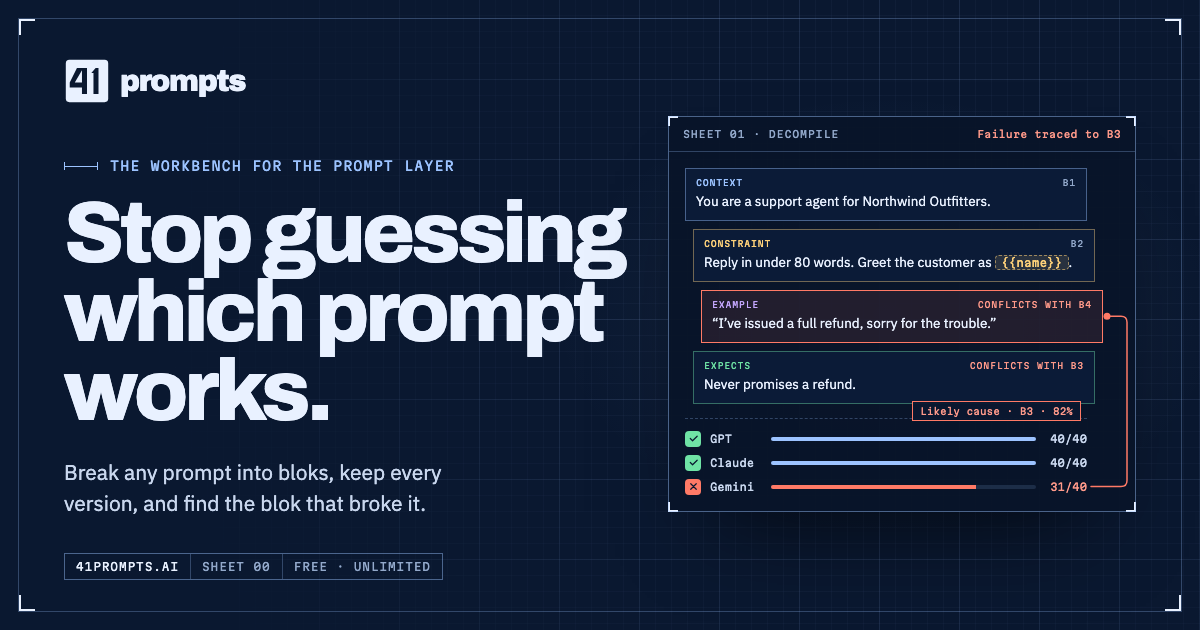
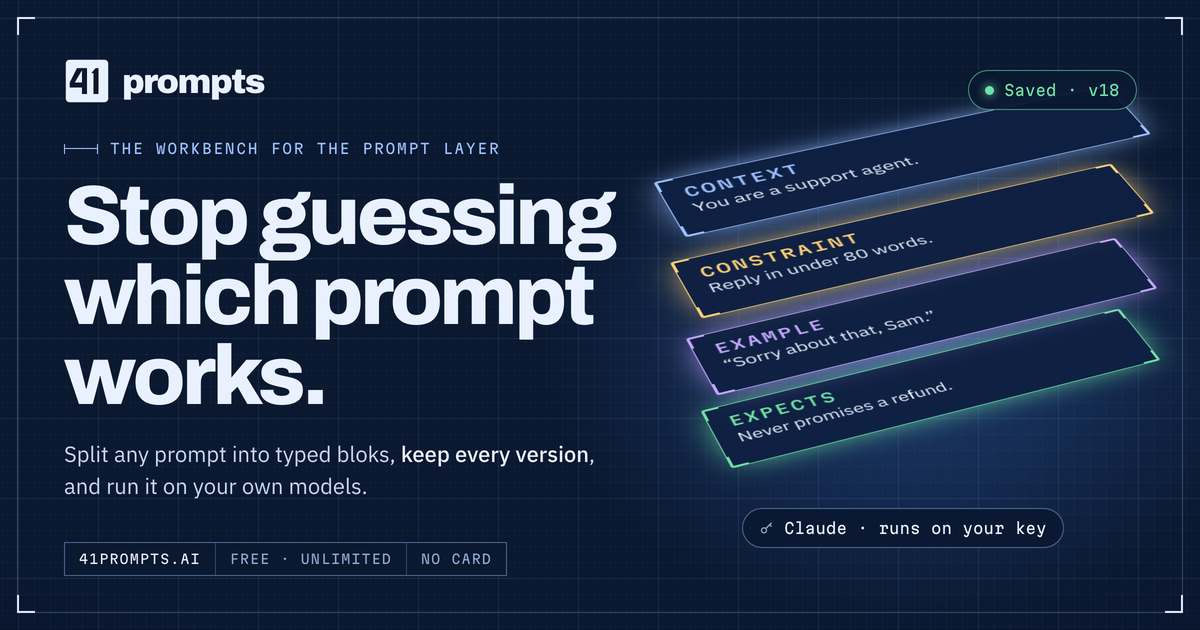
feat(site): social card and link-preview text for the launch
A new 1200x630 card that shows only Free-plan features, rendered from
docs/launch/og/og.html, and one source for the title, description and
card on both hosts. The app host now has a preview too.

diff --git a/docs/launch/og/og.html b/docs/launch/og/og.html
@@ -1,0 +1,91 @@
+<!doctype html>
+<html lang="en">
+<head>
+<meta charset="utf-8">
+<title>41prompts · social card</title>
+<style>
+@font-face { font-family: "Archivo"; src: url("../../assets/fonts/archivo-latin-800-normal.woff2") format("woff2"); font-weight: 800; }
+@font-face { font-family: "Archivo"; src: url("../../assets/fonts/archivo-latin-900-normal.woff2") format("woff2"); font-weight: 900; }
+@font-face { font-family: "IBM Plex Sans"; src: url("../../assets/fonts/ibm-plex-sans-latin-400-normal.woff2") format("woff2"); font-weight: 400; }
+@font-face { font-family: "IBM Plex Sans"; src: url("../../assets/fonts/ibm-plex-sans-latin-500-normal.woff2") format("woff2"); font-weight: 500; }
+@font-face { font-family: "Martian Mono"; src: url("../../assets/fonts/martian-mono-latin-400-normal.woff2") format("woff2"); font-weight: 400; }
+@font-face { font-family: "Martian Mono"; src: url("../../assets/fonts/martian-mono-latin-500-normal.woff2") format("woff2"); font-weight: 500; }
+:root { --ground: #0A1830; --chalk: #E9F1FF; --chalk-2: #C9D7EE; --chalk-3: #93A9CB; --accent: #9CC3FF; --line-2: rgba(156,195,255,.28); --line-3: rgba(156,195,255,.45);
+  --b1: #9CC3FF; --b2: #FFD27A; --b3: #C6A8FF; --b4: #6FE3A5; }
+* { box-sizing: border-box; margin: 0; padding: 0; }
+html, body { width: 1200px; height: 630px; overflow: hidden; background: var(--ground); }
+body { position: relative; font-family: "IBM Plex Sans", sans-serif; color: var(--chalk); -webkit-font-smoothing: antialiased; }
+.bg { position: absolute; inset: 0;
+  background:
+    radial-gradient(ellipse 44% 62% at 76% 56%, rgba(70,130,235,.34), transparent 70%),
+    radial-gradient(ellipse 120% 100% at 50% 45%, transparent 60%, rgba(2,8,20,.6) 100%),
+    linear-gradient(rgba(156,195,255,.075) 1px, transparent 1px) 18px 18px / 80px 80px,
+    linear-gradient(90deg, rgba(156,195,255,.075) 1px, transparent 1px) 18px 18px / 80px 80px,
+    linear-gradient(rgba(156,195,255,.03) 1px, transparent 1px) 18px 18px / 16px 16px,
+    linear-gradient(90deg, rgba(156,195,255,.03) 1px, transparent 1px) 18px 18px / 16px 16px,
+    var(--ground); }
+.border { position: absolute; inset: 18px; border: 1px solid var(--line-2); --c: var(--chalk); --l: 18px; --w: 2px;
+  background:
+    linear-gradient(var(--c), var(--c)) left top / var(--l) var(--w) no-repeat, linear-gradient(var(--c), var(--c)) left top / var(--w) var(--l) no-repeat,
+    linear-gradient(var(--c), var(--c)) right top / var(--l) var(--w) no-repeat, linear-gradient(var(--c), var(--c)) right top / var(--w) var(--l) no-repeat,
+    linear-gradient(var(--c), var(--c)) left bottom / var(--l) var(--w) no-repeat, linear-gradient(var(--c), var(--c)) left bottom / var(--w) var(--l) no-repeat,
+    linear-gradient(var(--c), var(--c)) right bottom / var(--l) var(--w) no-repeat, linear-gradient(var(--c), var(--c)) right bottom / var(--w) var(--l) no-repeat;
+  background-origin: border-box; margin: -1px; }
+.logo { position: absolute; left: 64px; top: 58px; display: flex; align-items: center; gap: 12px; z-index: 5; }
+.logo svg { width: 46px; height: 46px; }
+.logo b { font-family: "Archivo"; font-weight: 900; font-size: 34px; letter-spacing: -.045em; }
+.copy { position: absolute; left: 64px; top: 140px; width: 610px; z-index: 5; }
+.eyebrow { display: flex; align-items: center; gap: 12px; font-family: "Martian Mono"; font-size: 14px; letter-spacing: .12em; text-transform: uppercase; color: var(--accent); }
+.eyebrow::before { content: ""; width: 34px; height: 10px; flex: none;
+  background: linear-gradient(var(--accent), var(--accent)) left center / 100% 1px no-repeat, linear-gradient(var(--accent), var(--accent)) left center / 1px 100% no-repeat, linear-gradient(var(--accent), var(--accent)) right center / 1px 100% no-repeat; }
+h1 { font-family: "Archivo"; font-weight: 800; font-size: 84px; line-height: .95; letter-spacing: -.045em; margin: 20px 0 22px; text-wrap: balance; }
+.sub { font-size: 22px; line-height: 1.42; color: var(--chalk-2); width: 540px; }
+.sub b { color: var(--chalk); font-weight: 500; }
+.tb { position: absolute; left: 64px; bottom: 54px; display: inline-grid; grid-auto-flow: column; border: 1px solid var(--line-3); font-family: "Martian Mono"; font-size: 13px; letter-spacing: .08em; text-transform: uppercase; color: var(--chalk-3); z-index: 5; background: rgba(10,24,48,.85); }
+.tb span { padding: 8px 14px; border-left: 1px solid var(--line-2); white-space: nowrap; }
+.tb span:first-child { border-left: 0; color: var(--chalk); }
+
+/* the exploded blok stack */
+.iso { position: absolute; left: 906px; top: 392px; width: 1px; height: 1px; z-index: 4; perspective: 2400px; }
+.plane { position: absolute; left: -230px; top: -48px; width: 460px; height: 96px; transform-style: preserve-3d; transform: rotateX(52deg) rotateZ(-22deg); }
+.plate { position: absolute; left: 0; top: 0; width: 460px; height: 96px; padding: 14px 20px; border: 1.5px solid var(--c); border-radius: 3px; --cl: 18px; --cw: 3px;
+  background:
+    linear-gradient(var(--c), var(--c)) left top / var(--cl) var(--cw) no-repeat, linear-gradient(var(--c), var(--c)) left top / var(--cw) var(--cl) no-repeat,
+    linear-gradient(var(--c), var(--c)) right top / var(--cl) var(--cw) no-repeat, linear-gradient(var(--c), var(--c)) right top / var(--cw) var(--cl) no-repeat,
+    linear-gradient(var(--c), var(--c)) left bottom / var(--cl) var(--cw) no-repeat, linear-gradient(var(--c), var(--c)) left bottom / var(--cw) var(--cl) no-repeat,
+    linear-gradient(var(--c), var(--c)) right bottom / var(--cl) var(--cw) no-repeat, linear-gradient(var(--c), var(--c)) right bottom / var(--cw) var(--cl) no-repeat,
+    rgba(14,32,66,.97);
+  background-origin: border-box; box-shadow: 0 0 40px -8px var(--c); }
+.plate b { display: block; font-family: "Martian Mono"; font-weight: 500; font-size: 20px; letter-spacing: .1em; color: var(--c); margin-bottom: 2px; }
+.plate span { font-size: 20px; color: var(--chalk); white-space: nowrap; }
+.chip { position: absolute; z-index: 6; display: flex; align-items: center; gap: 10px; height: 40px; padding: 0 16px; border-radius: 999px; font-family: "Martian Mono"; font-size: 15px; white-space: nowrap; background: rgba(10,24,48,.92); }
+.chip i { width: 9px; height: 9px; border-radius: 50%; background: currentColor; box-shadow: 0 0 10px currentColor; }
+.saved { color: var(--b4); border: 1.5px solid rgba(111,227,165,.6); }
+.run { color: var(--chalk); border: 1.5px solid var(--line-3); }
+.run svg { width: 15px; height: 15px; fill: none; stroke: var(--chalk-3); stroke-width: 2; }
+</style>
+</head>
+<body>
+<div class="bg"></div>
+<div class="border"></div>
+<div class="logo"><svg viewBox="0 0 64 64"><rect x="2.5" y="2.5" width="59" height="59" rx="5" fill="#E9F1FF"/><path fill="#0A1830" fill-rule="evenodd" d="M18 14 L32 14 L32 50 L25 50 L25 41 L8 41 L8 34Z M25 17 L25 34 L15 34Z"/><path fill="#0A1830" d="M38 21 L44 14 L48 14 L48 50 L41 50 L41 21Z"/></svg><b>prompts</b></div>
+<div class="copy">
+  <div class="eyebrow">The workbench for the prompt layer</div>
+  <h1>Stop guessing which prompt works.</h1>
+  <p class="sub">Split any prompt into typed bloks, <b>keep every version</b>, and run it on your own models.</p>
+</div>
+<div class="tb"><span>41prompts.ai</span><span>Free · Unlimited</span><span>No card</span></div>
+
+<div class="iso">
+  <div class="plane">
+    <div class="plate" style="--c:var(--b4);transform:translate3d(30px,0,0)"><b>EXPECTS</b><span>Never promises a refund.</span></div>
+    <div class="plate" style="--c:var(--b3);transform:translate3d(20px,0,92px)"><b>EXAMPLE</b><span>“Sorry about that, Sam.”</span></div>
+    <div class="plate" style="--c:var(--b2);transform:translate3d(10px,0,184px)"><b>CONSTRAINT</b><span>Reply in under 80 words.</span></div>
+    <div class="plate" style="--c:var(--b1);transform:translate3d(0,0,276px)"><b>CONTEXT</b><span>You are a support agent.</span></div>
+  </div>
+</div>
+<div class="chip saved" style="left:968px;top:70px"><i></i>Saved · v18</div>
+<div class="chip run" style="left:742px;top:508px"><svg viewBox="0 0 24 24"><circle cx="8" cy="15" r="4"/><path d="M11 12l9-9M17 6l3 3"/></svg>Claude · runs on your key</div>
+<script>document.fonts.ready.then(function () { window.__ready = true; });</script>
+</body>
+</html>

diff --git a/src/app/site/layout.tsx b/src/app/site/layout.tsx
@@ -3,16 +3,17 @@ import { Analytics } from "@/components/analytics";
 import { HeadFlags } from "@/components/head-flags";
 import { IconSprite } from "@/components/icon";
 import { siteUrl } from "@/lib/hosts";
+import { SOCIAL_DESCRIPTION, SOCIAL_TITLE, socialMetadata } from "@/lib/social";
 import { fontVariables } from "@/styles/fonts";
 import "@/styles/globals.css";
 import "./site.css";
 
 export const metadata: Metadata = {
   metadataBase: new URL(siteUrl("/")),
-  title: "41prompts · Stop guessing which prompt works",
-  description: "The workbench for the prompt layer. Break any prompt into bloks, keep every version, and find the blok that broke it.",
+  title: SOCIAL_TITLE,
+  description: SOCIAL_DESCRIPTION,
   icons: { icon: "/favicon.svg" },
-  openGraph: { type: "website", siteName: "41prompts", url: siteUrl("/"), images: [{ url: siteUrl("/assets/og.png"), width: 1200, height: 630, alt: "41prompts: stop guessing which prompt works." }] }, twitter: { card: "summary_large_image", images: [siteUrl("/assets/og.png")] },
+  ...socialMetadata(siteUrl("/")),
 };
 
 export const viewport: Viewport = { themeColor: "#0A1830", colorScheme: "dark", viewportFit: "cover" };

diff --git a/src/lib/social.ts b/src/lib/social.ts
@@ -1,0 +1,21 @@
+import type { Metadata } from "next";
+import { siteUrl } from "@/lib/hosts";
+
+/* The link preview X, LinkedIn, Slack and the rest show for both hosts. The card
+   is public/assets/og.png, rendered from docs/launch/og/og.html. */
+export const SOCIAL_TITLE = "41prompts · Split, version and run your prompts";
+export const SOCIAL_DESCRIPTION =
+  "Paste any prompt, split it into typed bloks, keep every version and run it on your own models. Free and unlimited, no card.";
+
+export function socialMetadata(url: string): Pick<Metadata, "openGraph" | "twitter"> {
+  const image = {
+    url: siteUrl("/assets/og.png"),
+    width: 1200,
+    height: 630,
+    alt: "41prompts: a prompt split into four typed bloks (context, constraint, example, expects), saved as a version and run on your own key.",
+  };
+  return {
+    openGraph: { type: "website", siteName: "41prompts", url, title: SOCIAL_TITLE, description: SOCIAL_DESCRIPTION, images: [image] },
+    twitter: { card: "summary_large_image", title: SOCIAL_TITLE, description: SOCIAL_DESCRIPTION, creator: "@soroucsh", images: [image] },
+  };
+}

diff --git a/src/app/app/layout.tsx b/src/app/app/layout.tsx
@@ -5,6 +5,8 @@ import { IconSprite } from "@/components/icon";
 import { MotionProvider } from "@/components/motion-provider";
 import { ToastProvider } from "@/components/toast";
 import { db } from "@/db";
+import { APP_URL } from "@/lib/hosts";
+import { SOCIAL_DESCRIPTION, socialMetadata } from "@/lib/social";
 import { planFor } from "@/server/plan";
 import { getSession } from "@/server/session";
 import { fontVariables } from "@/styles/fonts";
@@ -13,8 +15,10 @@ import s from "./app.module.css";
 
 export const metadata: Metadata = {
   title: { default: "41prompts", template: "%s · 41prompts" },
+  description: SOCIAL_DESCRIPTION,
   robots: { index: false, follow: false },
   icons: { icon: "/favicon.svg" },
+  ...socialMetadata(APP_URL),
 };
 
 export const viewport: Viewport = { themeColor: "#0A1830", colorScheme: "dark", viewportFit: "cover" };
